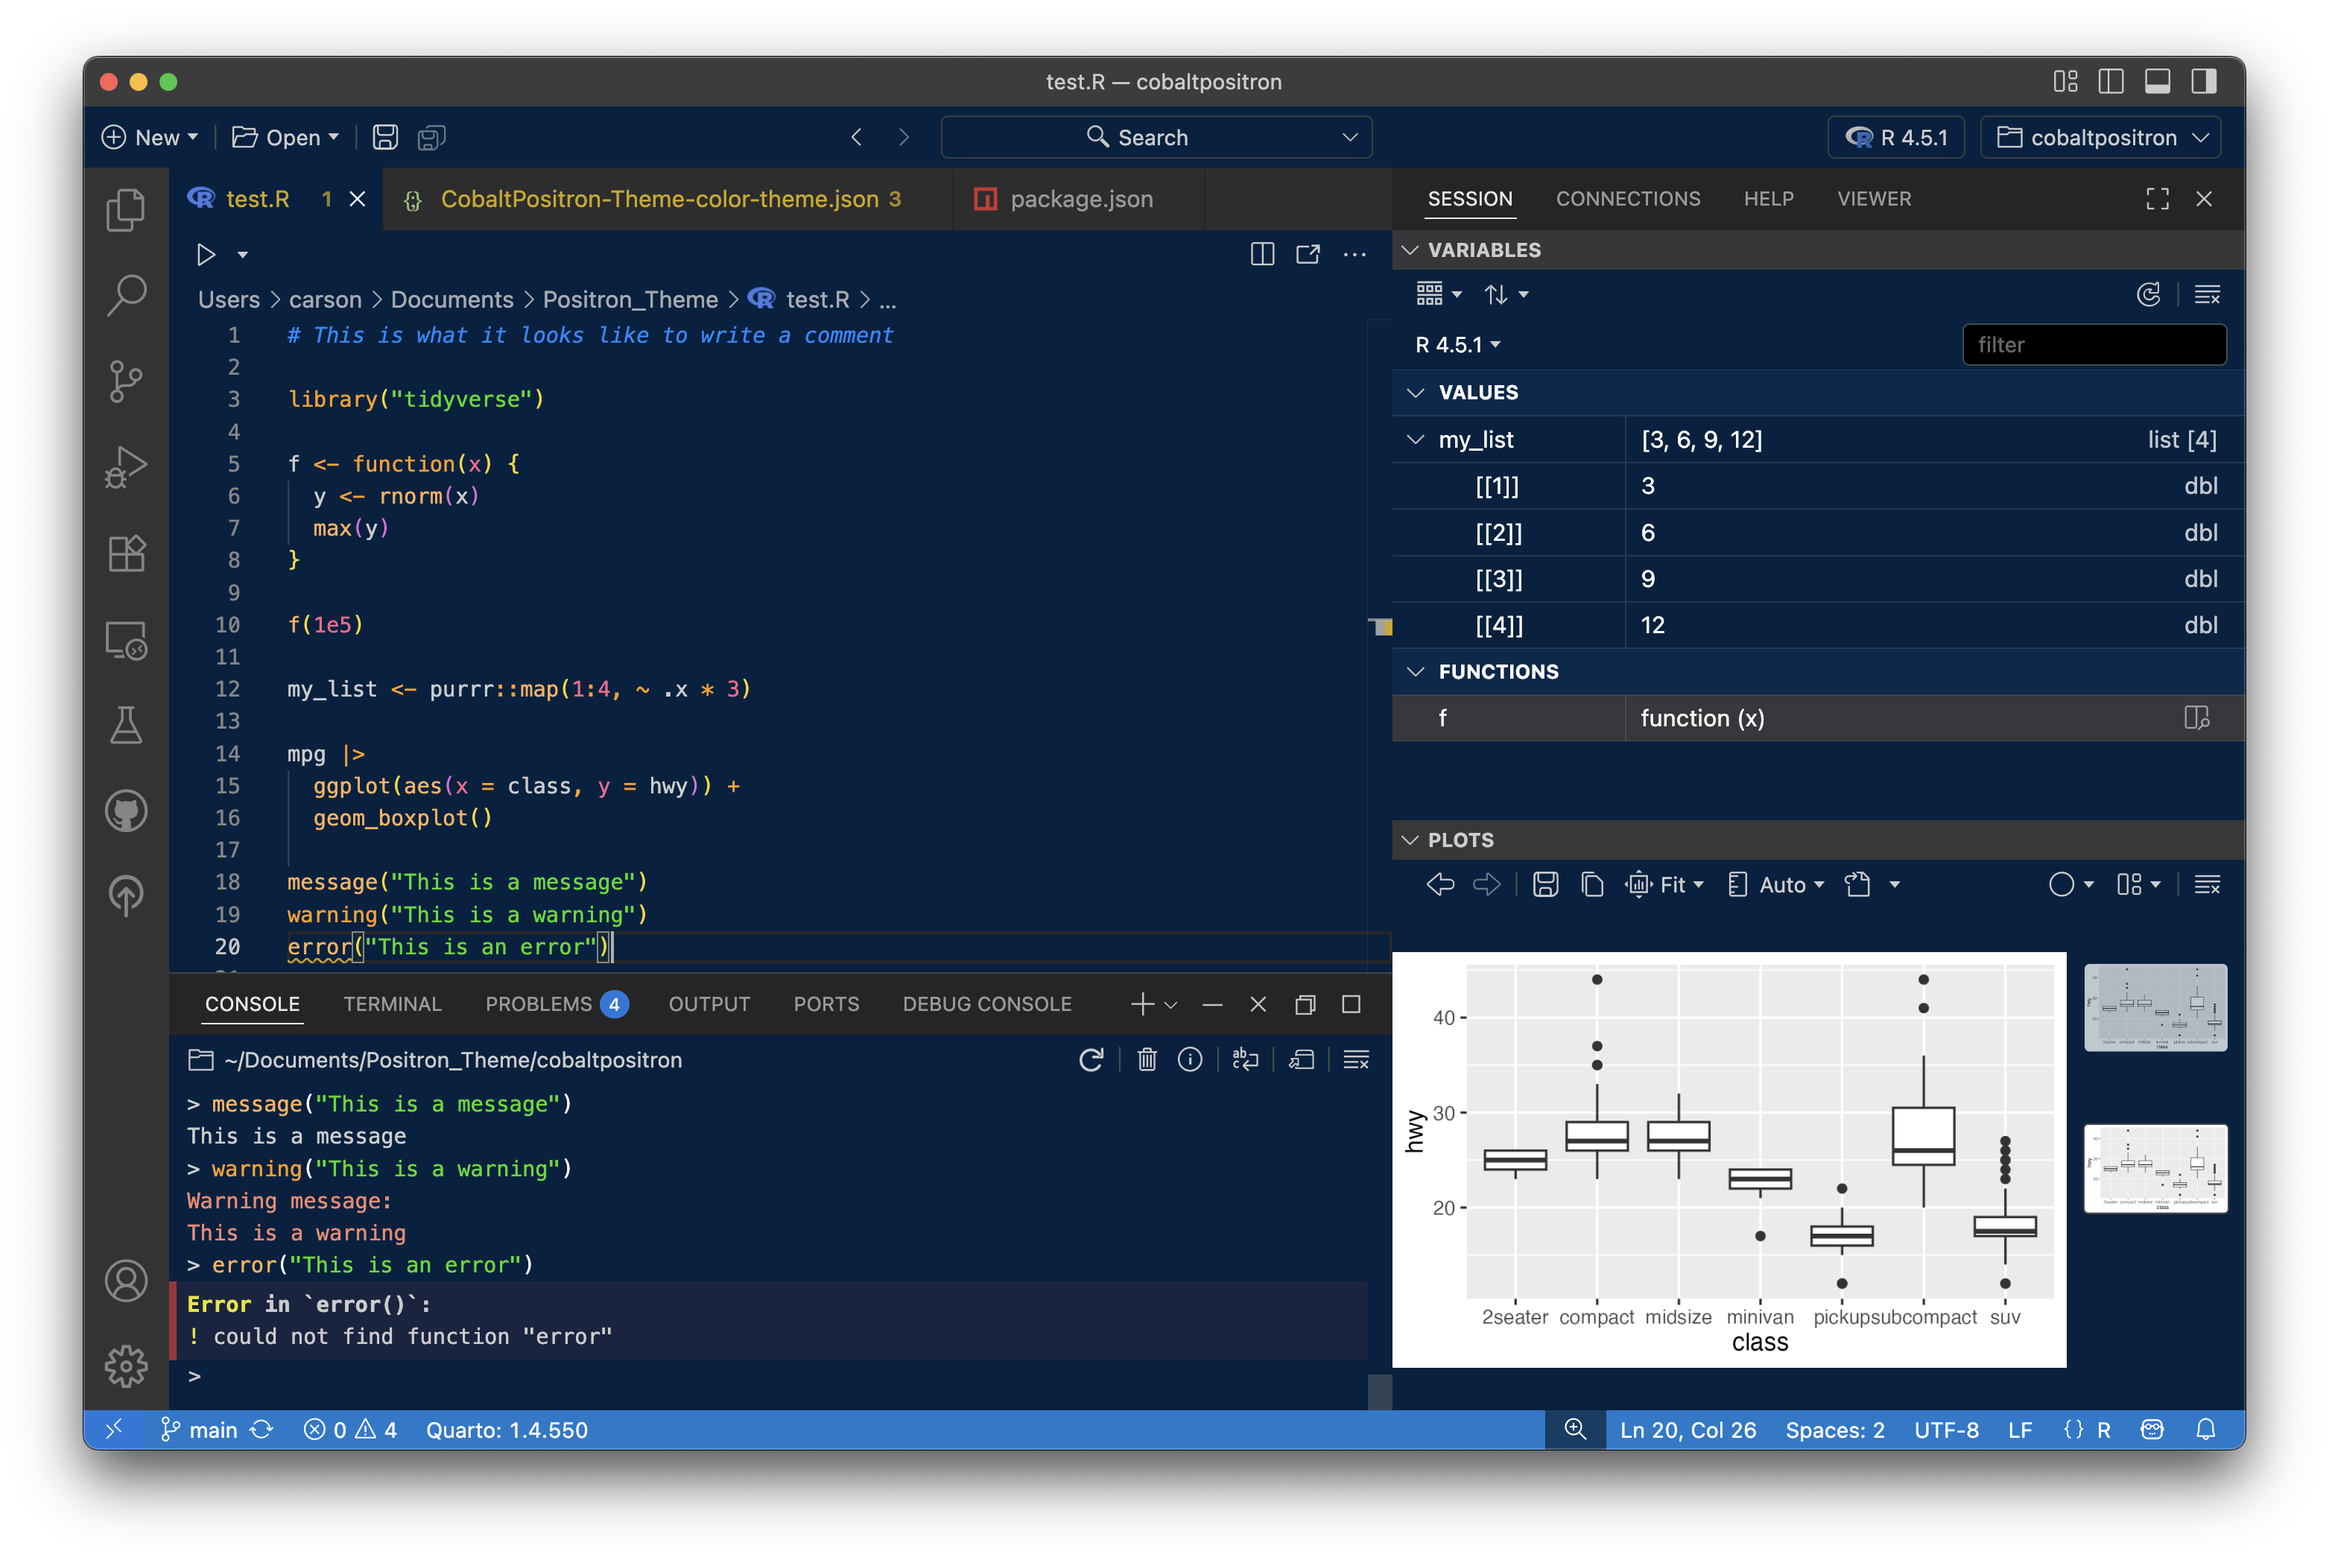
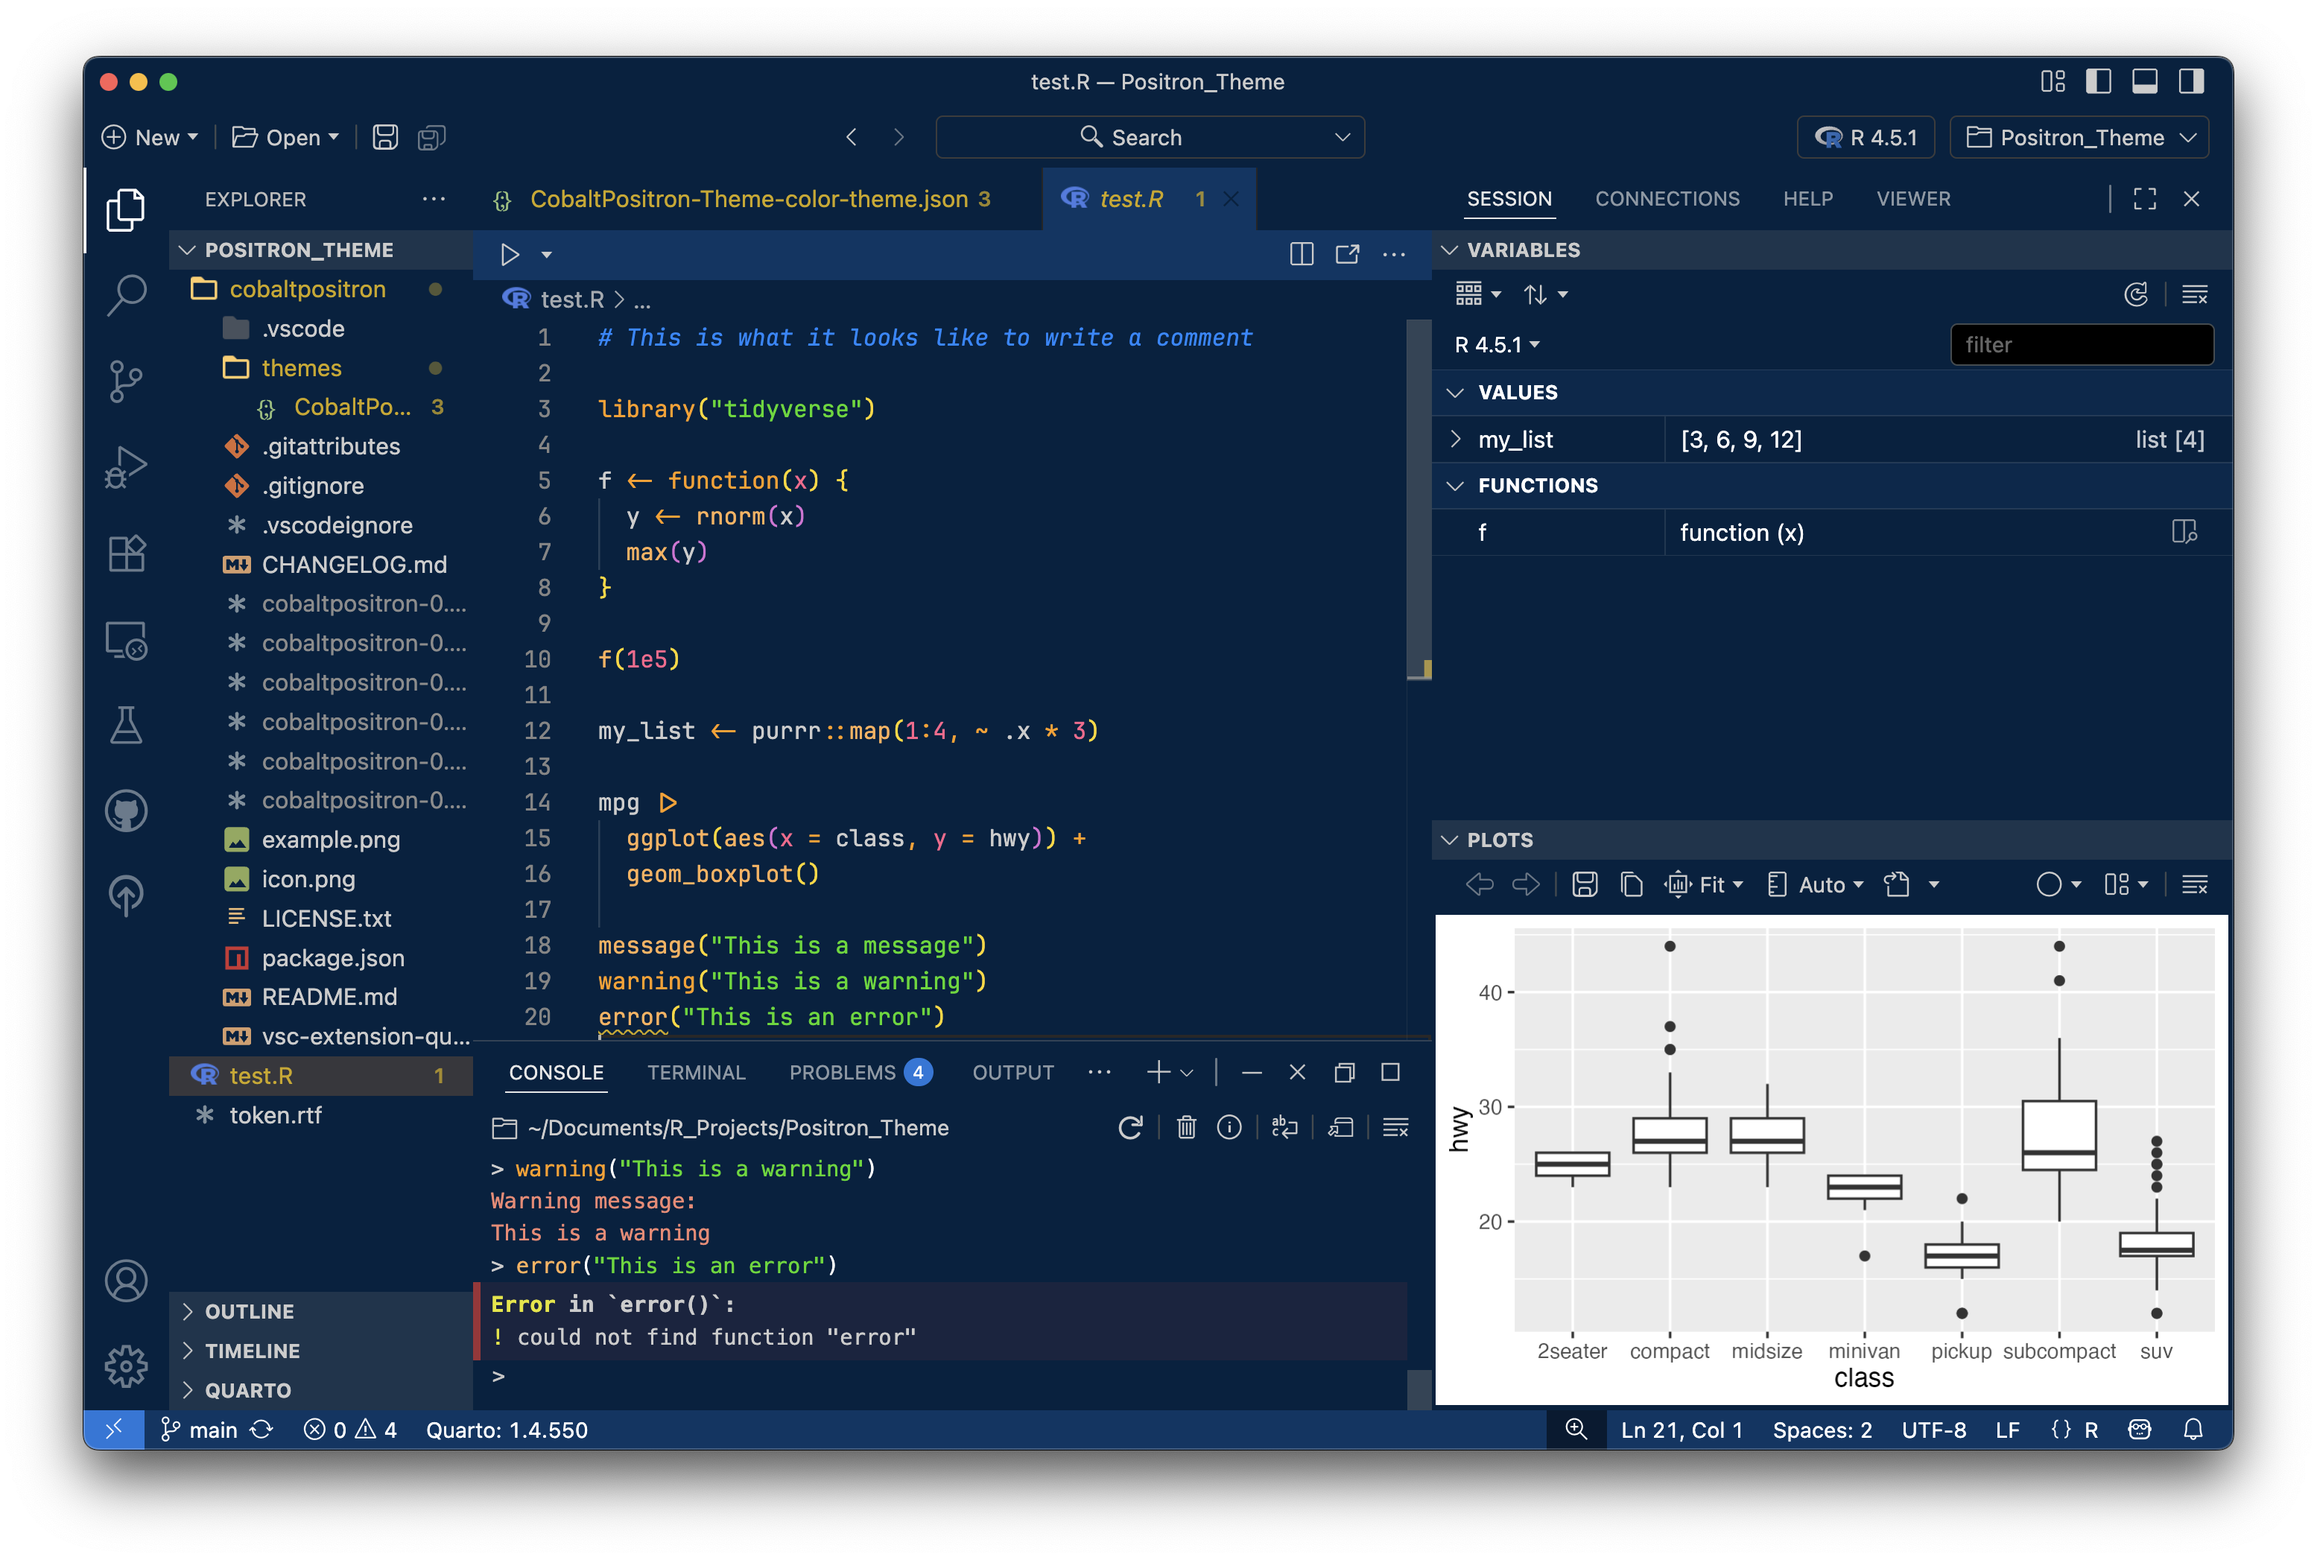
version 0.1.4

diff --git a/README.md b/README.md
@@ -1,6 +1,6 @@
 # CobaltPositron Theme
 
-A modern, dark cobalt-inspired theme designed for **Positron** and **Visual Studio Code**.  
+A modern, dark cobalt-inspired theme designed for **Positron** and **Visual Studio Code**.
 This theme brings deep blues, sharp contrast, and a developer-friendly aesthetic to your coding environment.
 
 ## Installation
@@ -11,7 +11,7 @@ Once the theme is published to the **VSX Marketplace**, you can install it direc
 2. Go to the **Extensions** view:
    - Click the Extensions icon in the Activity Bar on the side of the window.
    - Or press:
-     - `Ctrl+Shift+X` (Windows/Linux)  
+     - `Ctrl+Shift+X` (Windows/Linux)
      - `Cmd+Shift+X` (macOS)
 3. Search for **CobaltPositron-Theme**.
 4. Click **Install**.
@@ -21,7 +21,7 @@ Once the theme is published to the **VSX Marketplace**, you can install it direc
 After installing:
 
 1. Open the **Command Palette**:
-   - `Ctrl+Shift+P` (Windows/Linux)  
+   - `Ctrl+Shift+P` (Windows/Linux)
    - `Cmd+Shift+P` (macOS)
 2. Type `Color Theme` and select **Preferences: Color Theme**.
 3. From the list, choose **CobaltPositron-Theme**.
@@ -32,25 +32,70 @@ Here are the `settings.json` the author of this theme is running at the time of 
 {
     "window.autoDetectColorScheme": true,
     "workbench.preferredDarkColorTheme": "CobaltPositron-Theme",
+    "workbench.colorCustomizations": {
+        "[CobaltPositron-Theme]": {
+            "tab.inactiveBackground": "#002240",
+            "tab.inactiveForeground": "#ffffff",
+            "tab.activeBackground": "#013664",
+            "tab.activeForeground": "#002240",
+            "editorGroupHeader.tabsBackground": "#002240",
+            "activityBar.background": "#002240",
+            "statusBar.background": "#013664",
+            "sideBar.background": "#002240",
+            "titleBar.activeBackground": "#002240"
+        }
+    }
     "files.associations": {
         "renv.lock": "json"
     },
+    //vertical line to keep code vertical
+    "editor.rulers": [
+        80
+    ],
+    // handle newline saving adapted from
+    // https://rfdonnelly.github.io/posts/sane-vscode-whitespace-settings/
+    "files.insertFinalNewline": true,
+    "editor.renderFinalNewline": "dimmed",
+    "files.trimFinalNewlines": true,
+    "files.trimTrailingWhitespace": true,
+    // also render trailing whitespace, since it'll get trimmed
+    "editor.renderWhitespace": "trailing",
+    // pretty cursor
+    "editor.cursorBlinking": "phase",
+    "editor.cursorStyle": "line",
+    // otherwise opening two files closes the first ???
+    "workbench.editor.enablePreview": false,
+    // adds more lines to the file tab
+    "workbench.tree.renderIndentGuides": "always",
+    // prettier folders since vscode is ugly by default
     "workbench.iconTheme": "ayu",
     "workbench.settings.editor": "json",
+    // use air
     "editor.formatOnSave": true,
+    // better pasting
+    "editor.formatOnPaste": true,
+    // font and what not
     "editor.fontFamily": "'JetBrains Mono', monospace",
     "editor.fontSize": 13,
     "editor.fontWeight": "normal",
     "editor.fontLigatures": true,
-    "editor.parameterHints.enabled": false
+    "editor.parameterHints.enabled": false,
+    // adds lines for the current bracket you're in
+    "editor.guides.bracketPairs": "active",
+    "workbench.startupEditor": "none",
+    // gotta keep my RStudio keybindings
+    "workbench.keybindings.rstudioKeybindings": true,
+    // enable assistant
+    "positron.assistant.consoleActions.enable": false // for now
 }
 ```
+These settings are derived from [Christopher Kenny's blog post](https://christophertkenny.com/posts/2024-06-29-positron-settings/).
 
 ## Features
 
-- Dark cobalt base with balanced contrast for readability.  
-- Carefully chosen accent colors for syntax highlighting.  
-- Optimized for both long coding sessions and presentations.  
+- Dark cobalt base with balanced contrast for readability.
+- Carefully chosen accent colors for syntax highlighting.
+- Optimized for both long coding sessions and presentations.
 
 ![Example of how the IDE looks.](example.png)
 
@@ -60,11 +105,9 @@ Here are the `settings.json` the author of this theme is running at the time of 
 If you have suggestions or find issues, please open an issue or pull request on the [GitHub repository](https://github.com/carsonslater/cobaltpositron).
 
 
-
 ## License
 
-This theme is released under the [MIT License](LICENSE).  
+This theme is released under the [MIT License](LICENSE.txt).
 
 
 **Enjoy coding with CobaltPositron!**
-

diff --git a/CHANGELOG.md b/CHANGELOG.md
@@ -4,6 +4,21 @@ All notable changes to the "cobaltpositron" extension will be documented in this
 
 Check [Keep a Changelog](http://keepachangelog.com/) for recommendations on how to structure this file.
 
-## [Unreleased]
+## [1.1.4]
 
-- Initial release
+### Changed:
+
+- Made the following changes to the menu and other activity bars:
+
+```
+"tab.inactiveBackground": "#002240",
+"tab.inactiveForeground": "#ffffff",
+"tab.activeBackground": "#013664",
+"tab.activeForeground": "#002240",
+"editorGroupHeader.tabsBackground": "#002240",
+"activityBar.background": "#002240",
+"statusBar.background": "#013664",
+"sideBar.background": "#002240",
+"titleBar.activeBackground": "#002240"
+```
+- Updated the new README.md to reflect the new aesthetics.
